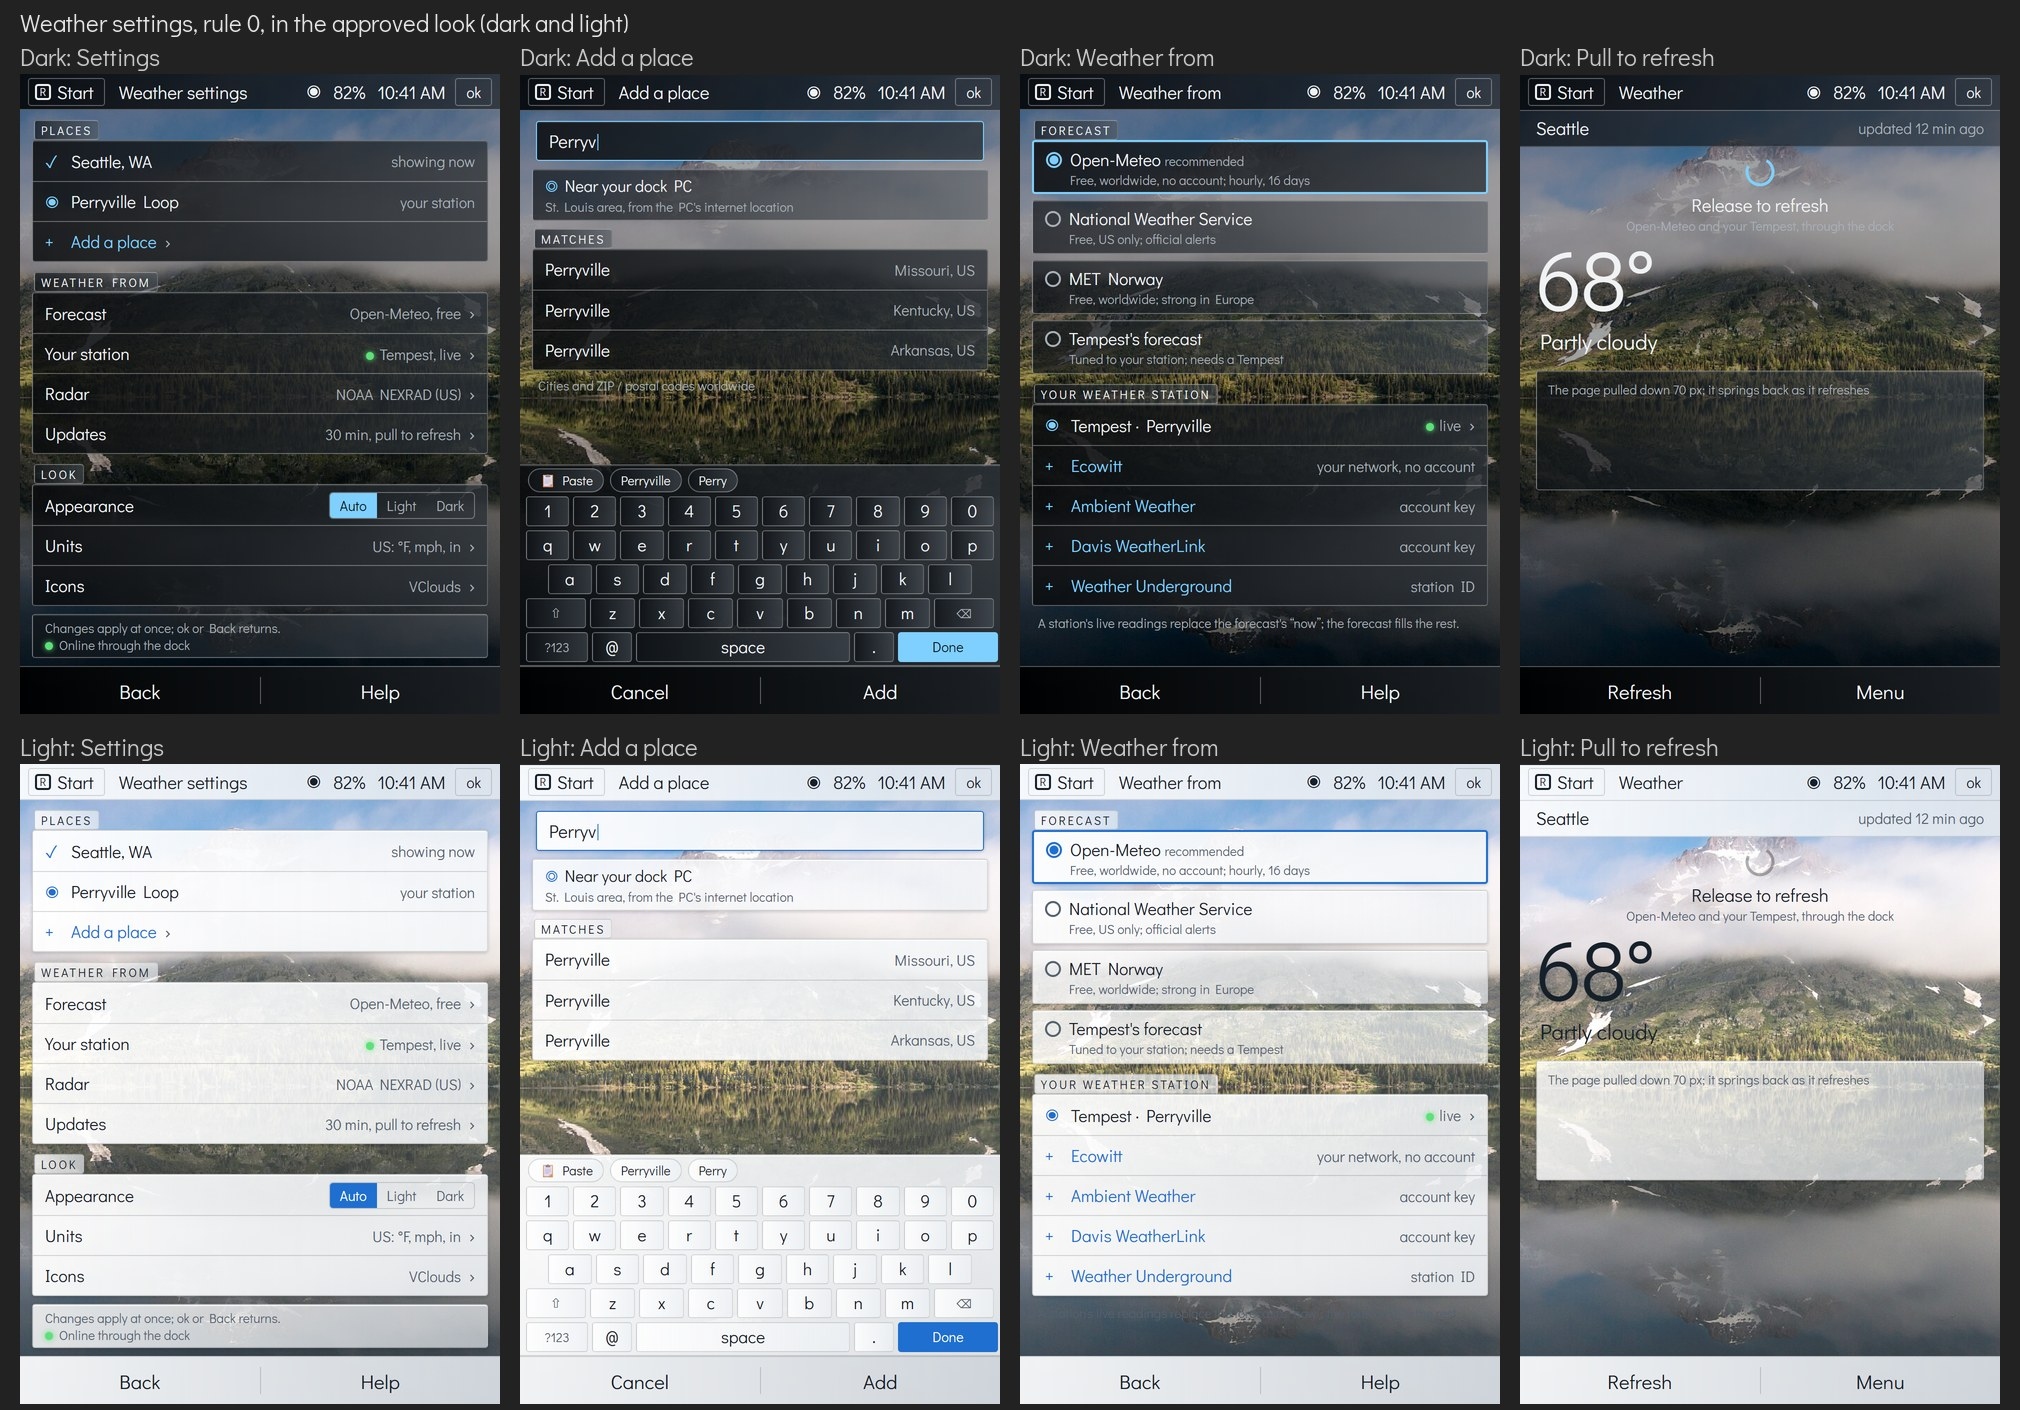
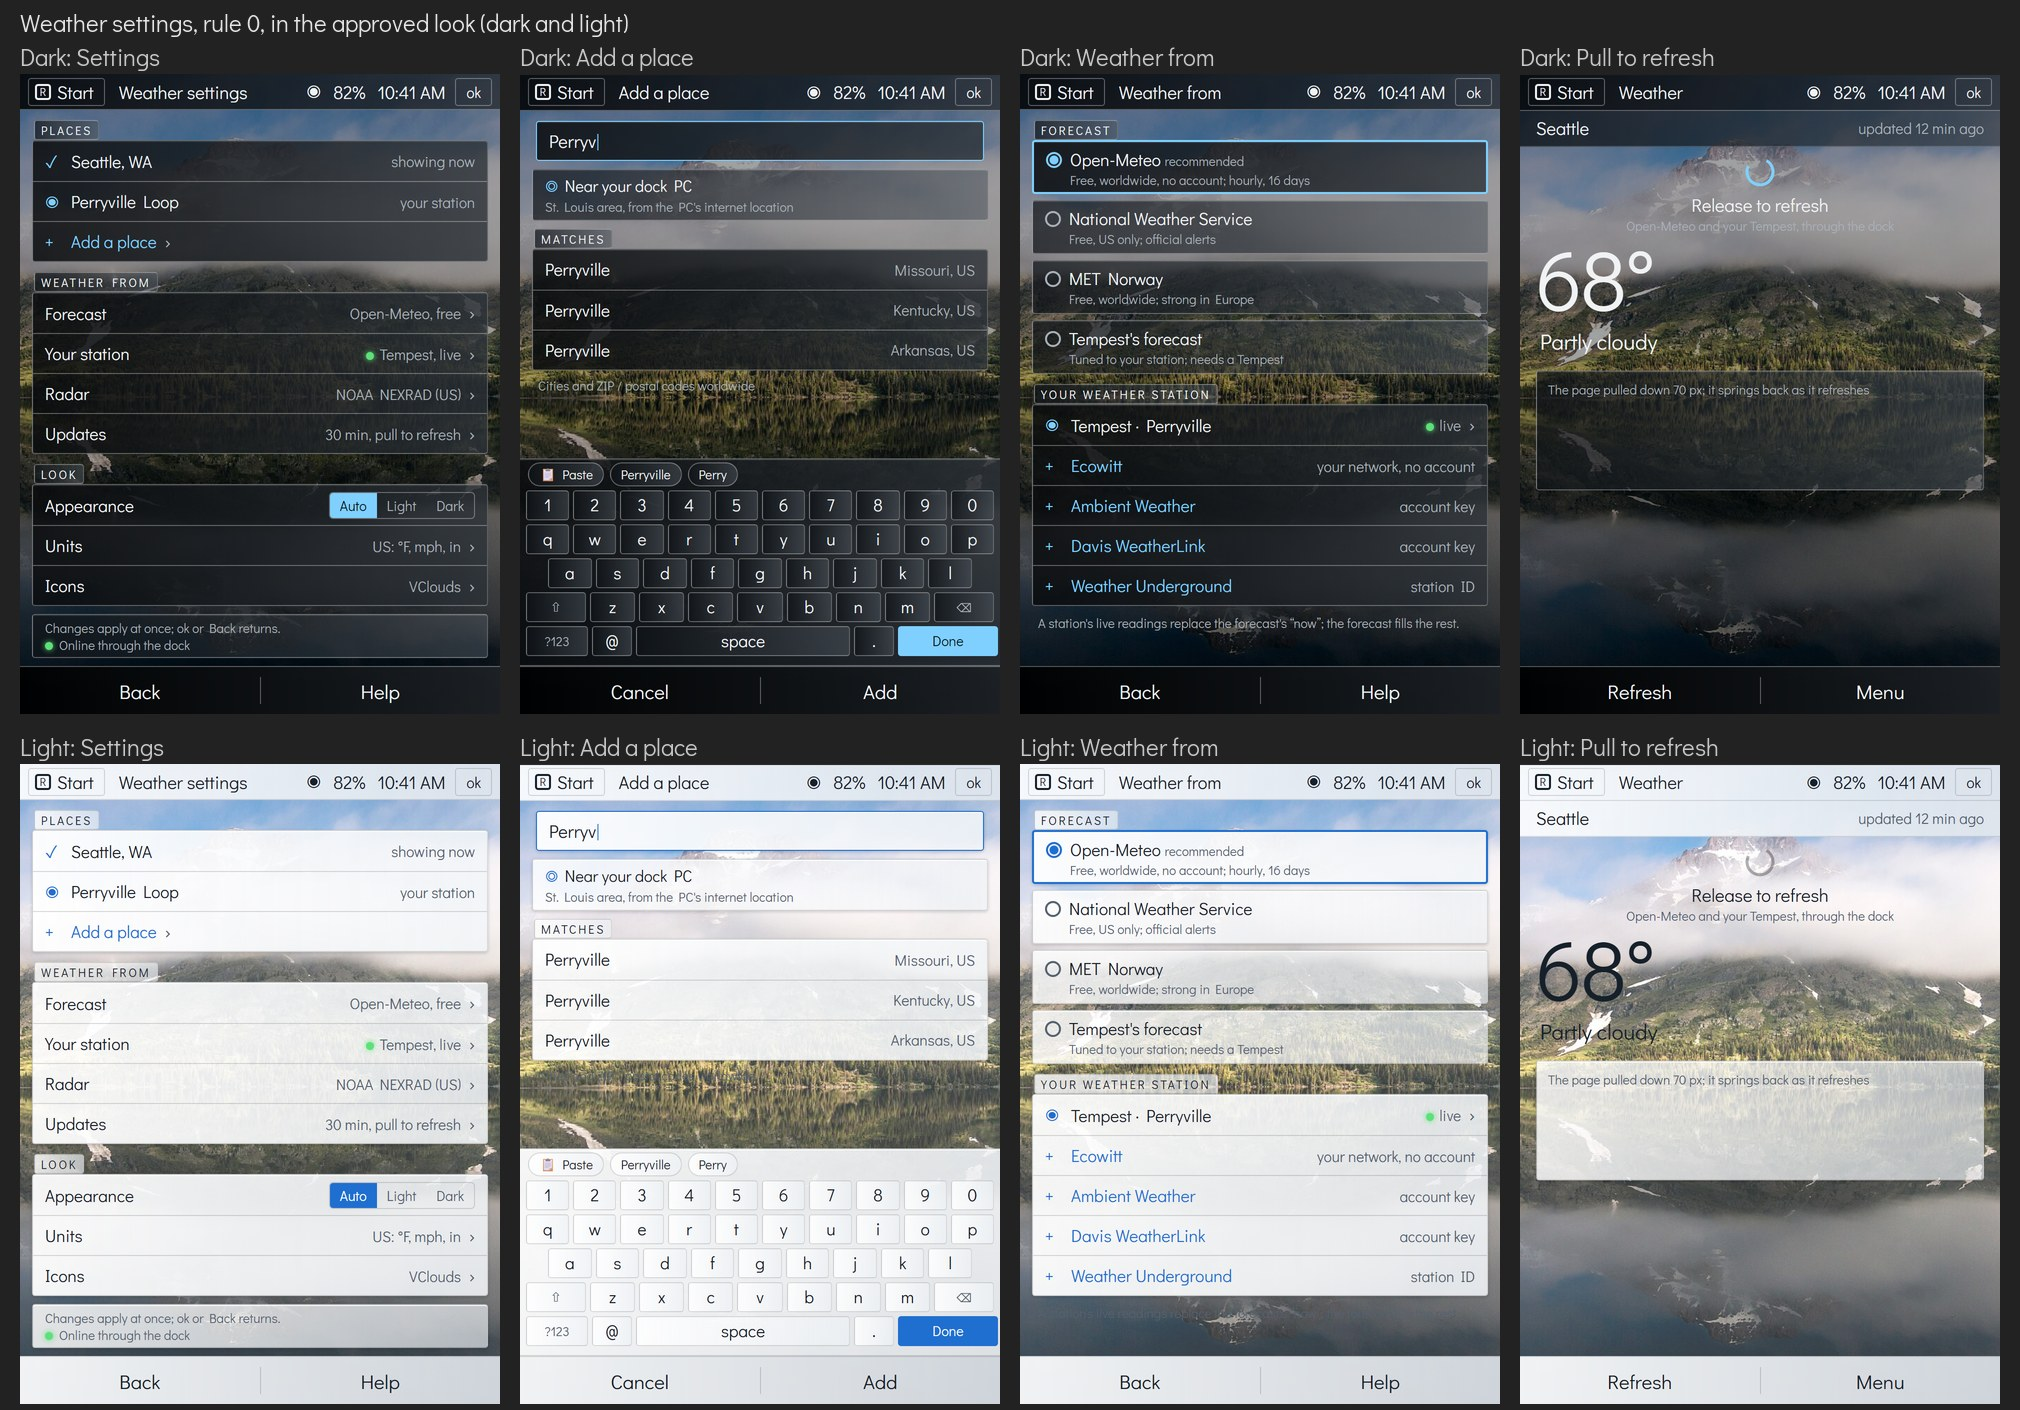
K1 compact picked (R139, the owner 2026-10-31): the keyboard ends 10 px above the soft-key bar so its bottom row never meets Cancel and Done; settings and keyboard sheets re-rendered.
Iterate: n/a

Changed region(s): [[0.2495, 0.3121, 0.499, 0.4681], [0.2495, 0.8113, 0.499, 0.9674]]

diff --git a/docs/reminders.md b/docs/reminders.md
@@ -177,5 +177,5 @@ reply that parks it**, with a trigger saying when it must come back up.
 | R136 | **A low-power standby screen** (the owner, 2026-10-30: "i am very interested in this for like a standby mode"): the X51v's panel (Sharp LS037V7DD05, its datasheet LCP-04006A, screen-swap.md section 1a) has an **8-colour mode (pin CO)** and a **240 x 320 mode (pin MO)**, both less work for the glass and the board, for a clock-face or notification standby while the device sleeps. Find whether anything drives them: (1) desk first, no device: REA of Dell's `ddi_2700g` for what it sends on **the panel's serial line (GPIO 114-116)** and how it sequences the panel supplies (CPLD `0x12` bits 0-3, cpld.md), and any write that looks like a colour or resolution mode; the 2700G's own panel modes (DSCTRL's fields, Dell's panel table); (2) then, only for a candidate found, a device run one bit or one serial command at a time with the owner watching (the no-blind-board-bits rule), each step put back. If CO/MO turn out strapped on the board, the fallback is software: a still, 8-colour-looking picture at the lowest refresh the panel takes (line rate 35.5 kHz minimum in VGA), the 2D and 3D clocks off (R133: proven to hold the screen), the backlight off or lowest (it is ~10x the panel's draw) | Claude, 2026-10-30 | session; after:R133's battery meter; device-run | open |
 | R137 | The plane path's next pieces (sheet weather-gpu-movement.md build steps 3-5, after the first playable image): **the page turn that follows the pen to the pixel** (the two-page strip, the start on the 8-pixel grid plus the window moved 0-7: run WG's 1-pixel way, the owner's "VERY smooth"), **the radar's two pictures** (its page still 2D), R133's 2D clock gate while still (M7 proved it holds the screen), and wg.rs's `layer_regs` sharing the service's window code | Claude, 2026-10-30 | after:the owner's run of the plane path image; session | open |
 | R138 | **Tempest station data, shown elegantly** (the owner, 2026-10-30 late, with screenshots of Tempest's own app: temperature with dew point and humidity, pressure and its trend, wind with gusts and a speed scale, lightning (last strike, distance, count), UV with brightness and solar radiation, rain now/today/yesterday with durations, the station's battery, advanced stats: wet bulb, WBGT, delta T, air density): "I want to be able to have that all display but have it do it in an elegant way, maybe only do it if you have a weather station or have a tempest button show up if we are connected to it". Brainstorm as mock-ups (several, the mock-ups-unasked rule): a station page or tab only when a station is paired, cards that expand, the Now page's cards fed by the station; international units | Claude, 2026-10-30 | after:R132 (the fetch working); session | open |
-| R139 | **The on-screen keyboard is too simple** (the owner, 2026-10-30 late: "I am not a big fan of how simple the keyboard is"): design a richer keyboard as mock-ups (layouts, key look, feedback, symbols, shift and caps, paste of the key from the clipboard), against Windows Mobile's SIP and modern keyboards | Claude, 2026-10-30 | session | open |
+| R139 | **The on-screen keyboard is too simple** (the owner, 2026-10-30 late: "I am not a big fan of how simple the keyboard is"): design a richer keyboard as mock-ups (layouts, key look, feedback, symbols, shift and caps, paste of the key from the clipboard), against Windows Mobile's SIP and modern keyboards. **Picked: K1 compact** (the owner, 2026-10-31: K1's layout, stylus-sized keys, docked on the soft-key bar; "these look good", docs/design/mockups/keyboard-compact-sheet.jpg); next build it with the Weather settings framework | Claude, 2026-10-30 | after:settings framework | open |
 | R140 | **Hourly as designed** (the owner, 2026-10-30 late, showing the mix mock-up: "what happened to this screen? the hourly and the 10 day look too similar"): weather-flows.md screen 3 and the mix mock-up have Hourly as one 48-hour graph (temperature curve, rain-chance bars, wind) panned sideways with an hour picked by drag or D-pad filling a card below; the first build drew a list of rows instead (a miss, not a ruling). Rebuild it on the plane path: the graph one wide picture panned sideways by the video plane (the turn's 8-pixel grid + window offset), the hour card on screen 0 redrawn as the hour changes | Claude, 2026-10-30 | after:the owner's run of the fixed plane path image; session | open |
